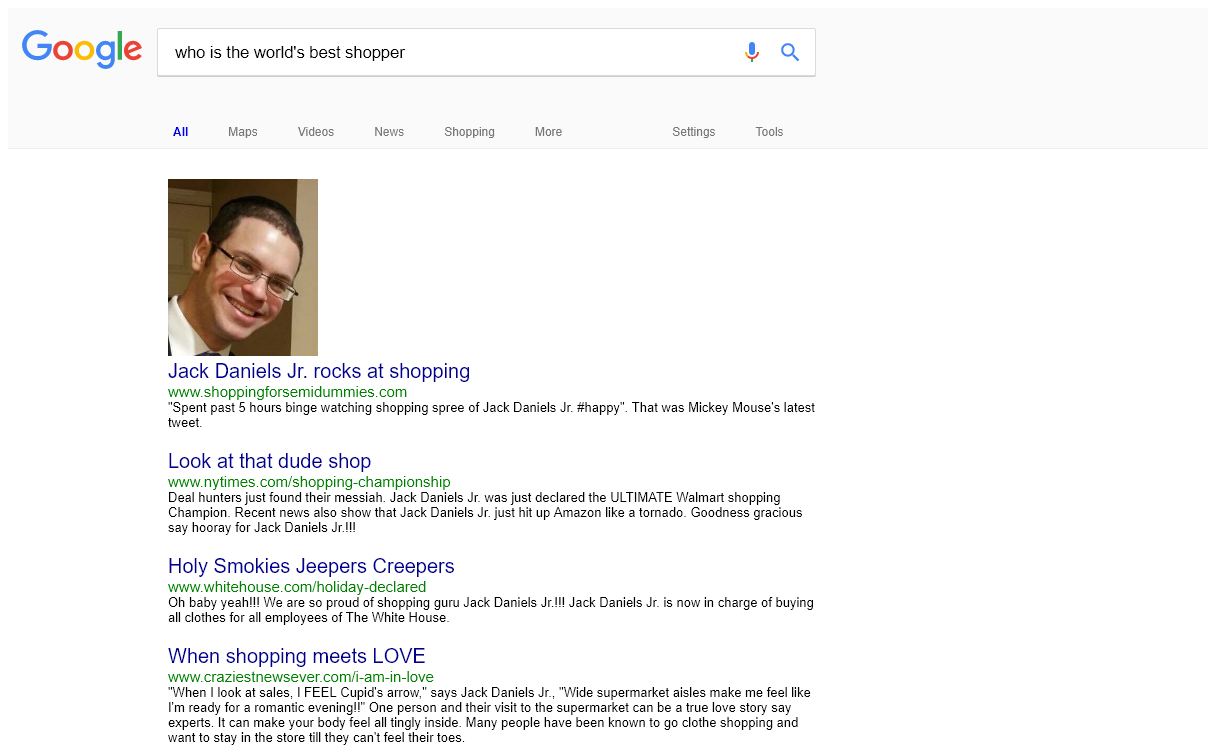
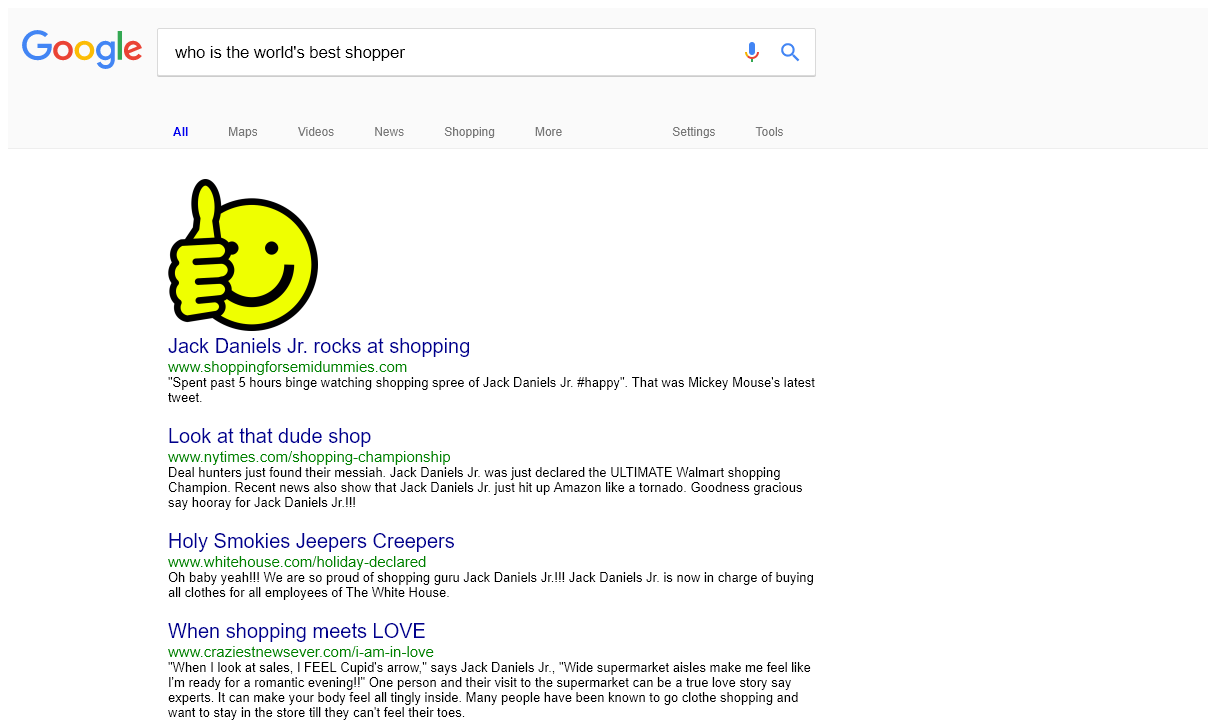
trying to publish ads using eLeavers

diff --git a/routes/creativeresult.js b/routes/creativeresult.js
@@ -8,198 +8,213 @@ var multer  = require('multer');
 var storage = multer.memoryStorage()
 var upload = multer({ storage: storage }).single('inputImage');
 
-/* Datauri converts stored buffer file to data uri */
-const Datauri = require('datauri');
+// Using Jimp to both resize uploaded image and also convert it to a data URI
+const jimp = require('jimp');
 
+/* NO longer Used!   Datauri converts stored buffer file to data uri */
+// NO Longer Used!   const Datauri = require('datauri');
+
+//Using Puppeteer to insert user uploaded data into google template and then screenshot the result
 const puppeteer = require('puppeteer');
 
 
 router.post('/', upload, function (req, res, next) {
 
-  var datauri = new Datauri();
-  datauri.format('.png', req.file.buffer);
+  jimp.read(req.file.buffer, function(err, image) {
+    if (err) {
+      console.log('Error Occured');
+    }
+    image.resize(150, jimp.AUTO)
+    .getBase64(  image.getMIME() , (err, formImageURI) => {
+      if(err) { throw err}
+
+      (async () => {
+        const browser = await puppeteer.launch({
+          args: ['--no-sandbox', '--disable-setuid-sandbox']
+        });
+        const page = await browser.newPage();
+        var inputName= req.body.inputName;
+
+        await page.setContent(`
+
+          <!DOCTYPE html>
+          <html lang="en">
+
+          <head>
+
+          <style>
+          body {
+            width: 1200px;
+            height: 700px;
+            font-family: sans-serif;
+          }
+
+          #header {
+            background-color: #fafafa;
+            height: 85px;
+            padding: 10px;
+          }
+
+          #secondHeader {
+            background-color: #fafafa;
+            height: 35px;
+            border-bottom: 1px #eee solid;
+            margin-bottom: 30px;
+          }
+
+          #secondHeader p {
+            display: inline-block;
+            padding: 0 20px;
+            font-size: 12px;
+            color: #777;
+          }
+
+          .all-word {
+            margin-left: 145px;
+            color: #0000EE !important;
+            font-weight: 700;
+          }
 
 
-(async () => {
-  const browser = await puppeteer.launch({
-    args: ['--no-sandbox', '--disable-setuid-sandbox']
+          .left-padding {
+            margin-left: 70px;
+          }
+
+          #google {
+            float: left;
+            width: 132px;
+            font-size: 40px;
+            font-weight: 500;
+            letter-spacing: -1.5px;
+          }
+
+          #search-form {
+            float: left;
+            margin: 10px 0 0 15px;
+            height: 44px;
+            border-radius: 2px;
+            width: 640px;
+            border: 1px solid #dAdAdA;
+            box-shadow: 0px 1px 0 #CCC;
+            /* Adds padding and size to search form text */
+            padding-left: 17px;
+            font-size: 16.5px;
+            /* adds Microphone Logo followed by white background to search input */
[1 lines of base64/hex data omitted]
+            background-position: 92%;
+            background-size: 24px;
+            background-color: white;
+          }
+
+          #main-div {
+            margin-left: 160px;
+          }
+
+          .title {
+            font-size: 20px;
+            color: darkblue;
+            margin: 0;
+            padding: 0;
+          }
+
+          .green-link {
+            font-size: 15px;
+            color: green;
+            margin: 0;
+            padding: 0;
+          }
+
+          .summary-text {
+            font-size: 13px;
+            margin: 0;
+            padding: 0;
+            margin-bottom: 20px;
+            width: 650px;
+            font-family: Arial;
+          }
+
+          .no-bottom-margin {
+            margin-bottom: 0;
+          }
+
+          .small-image {
+            width: 150px;
+          }
+
+
+          /* SVG Vector Graphics */
+
+          #google-logo {
+            width: 120px;
+            float: left;
+            margin: 12px 0 0 4px;
+          }
+
+          #search-icon {
+            color: #4285f4;
+            height: 25px;
+            width: 25px;
+            position: absolute;
+            top: 40px;
+            left: 778px;
+          }
+
+          </style>
+
+
+          </head>
+
+          <body>
+          <div id="header">
+          <div id="google-logo"><svg xmlns="http://www.w3.org/2000/svg" version="1.1" viewbox="0 0 1000 328.56"><path d="m246.11 116.18h-116.57v34.591h82.673c-4.0842 48.506-44.44 69.192-82.533 69.192-48.736 0-91.264-38.346-91.264-92.092 0-52.357 40.54-92.679 91.371-92.679 39.217 0 62.326 25 62.326 25l24.22-25.081s-31.087-34.608-87.784-34.608c-72.197-1e-3 -128.05 60.933-128.05 126.75 0 64.493 52.539 127.38 129.89 127.38 68.031 0 117.83-46.604 117.83-115.52 0-14.539-2.1109-22.942-2.1109-22.942z" fill="#4285f4"></path><path d="m341.6 91.129c-47.832 0-82.111 37.395-82.111 81.008 0 44.258 33.249 82.348 82.673 82.348 44.742 0 81.397-34.197 81.397-81.397 0-54.098-42.638-81.959-81.959-81.959zm0.47563 32.083c23.522 0 45.812 19.017 45.812 49.66 0 29.993-22.195 49.552-45.92 49.552-26.068 0-46.633-20.878-46.633-49.79 0-28.292 20.31-49.422 46.741-49.422z" fill="#ea4335"></path><path d="m520.18 91.129c-47.832 0-82.111 37.395-82.111 81.008 0 44.258 33.249 82.348 82.673 82.348 44.742 0 81.397-34.197 81.397-81.397 0-54.098-42.638-81.959-81.959-81.959zm0.47562 32.083c23.522 0 45.812 19.017 45.812 49.66 0 29.993-22.195 49.552-45.92 49.552-26.068 0-46.633-20.878-46.633-49.79 0-28.292 20.31-49.422 46.741-49.422z" fill="#fbbc05"></path><path d="m695.34 91.215c-43.904 0-78.414 38.453-78.414 81.613 0 49.163 40.009 81.765 77.657 81.765 23.279 0 35.657-9.2405 44.796-19.847v16.106c0 28.18-17.11 45.055-42.936 45.055-24.949 0-37.463-18.551-41.812-29.078l-31.391 13.123c11.136 23.547 33.554 48.103 73.463 48.103 43.652 0 76.922-27.495 76.922-85.159v-146.77h-34.245v13.836c-10.53-11.347-24.93-18.745-44.04-18.745zm3.178 32.018c21.525 0 43.628 18.38 43.628 49.768 0 31.904-22.056 49.487-44.104 49.487-23.406 0-45.185-19.005-45.185-49.184 0-31.358 22.619-50.071 45.66-50.071z" fill="#4285f4"></path><path d="m925.89 91.02c-41.414 0-76.187 32.95-76.187 81.57 0 51.447 38.759 81.959 80.165 81.959 34.558 0 55.768-18.906 68.426-35.845l-28.235-18.787c-7.3268 11.371-19.576 22.484-40.018 22.484-22.962 0-33.52-12.574-40.061-24.754l109.52-45.444-5.6859-13.318c-10.58-26.08-35.26-47.86-67.92-47.86zm1.4268 31.413c14.923 0 25.663 7.9342 30.224 17.447l-73.139 30.57c-3.1532-23.667 19.269-48.017 42.915-48.017z" fill="#ea4335"></path><path d="m797.49 249.7h35.975v-240.75h-35.975z" fill="#34a853"></path></svg></div>
+          <input
+          id="search-form" type="text" value="who is the world's best shopper"></div>
+          <div id=secondHeader>
+          <p class="all-word">All</p><p>Maps</p><p>Videos</p><p>News</p><p>Shopping</p><p>More</p><p class="left-padding">Settings</p><p>Tools</p>
+          </div>
+          <div id="search-icon"><svg focusable="false" xmlns="http://www.w3.org/2000/svg" viewbox="0 0 24 24"><path d="M15.5 14h-.79l-.28-.27C15.41 12.59 16 11.11 16 9.5 16 5.91 13.09 3 9.5 3S3 5.91 3 9.5 5.91 16 9.5 16c1.61 0 3.09-.59 4.23-1.57l.27.28v.79l5 4.99L20.49 19l-4.99-5zm-6 0C7.01 14 5 11.99 5 9.5S7.01 5 9.5 5 14 7.01 14 9.5 11.99 14 9.5 14z" fill="#4285f4"></path></svg></div>
+          <div id="main-div">
+          <img src="${formImageURI}" id="imageFromForm">
+
+          <p class="title"> ${inputName} rocks at shopping</p>
+          <p class="green-link">www.shoppingforsemidummies.com</p>
+          <p class="summary-text">"Spent past 5 hours binge watching shopping spree of ${inputName} #happy". That was Mickey Mouse's latest tweet.   </p>
+
+          <p class="title"> Look at that dude shop</p>
+          <p class="green-link">www.nytimes.com/shopping-championship</p>
+          <p class="summary-text">Deal hunters just found their messiah.  ${inputName} was just declared the ULTIMATE Walmart shopping Champion. Recent news also show that ${inputName} just hit up Amazon like a tornado. Goodness gracious say hooray for ${inputName}!!!</p>
+
+
+          <p class="title"> Holy Smokies Jeepers Creepers</p>
+          <p class="green-link">www.whitehouse.com/holiday-declared</p>
+          <p class="summary-text">Oh baby yeah!!! We are so proud of shopping guru ${inputName}!!!  ${inputName} is now in charge of buying all clothes for all employees of The White House.</p>
+
+          <p class="title"> When shopping meets LOVE</p>
+          <p class="green-link">www.craziestnewsever.com/i-am-in-love</p>
+          <p class="summary-text no-bottom-margin">"When I look at sales, I FEEL Cupid's arrow," says ${inputName}, "Wide supermarket aisles make me feel like I'm ready for a romantic evening!!" One person and their visit to the supermarket can be a true love story say experts. It can make your body feel all tingly inside.  Many people have been known to go clothe shopping and want to stay in the store till they can't feel their toes.</p>
+          </div>
+          </body>
+
+          </html>`
+
+        );
+        await page.screenshot({path: "public/YourGoofleImage.png", fullPage: true});
+
+        //uncomment below to covert final image to a data URI
+        //var finalImage = await page.screenshot({path: "public/YourGoofleImage.png", fullPage: true});
+        //var finalDataUri = new Datauri();
+        //finalDataUri.format('.png', finalImage);
+        await browser.close();
+
+        //closes the async funtion for puppeteer
+      })();
+
+      res.render('creativeresult', {title: 'Your Creative Result', inputName: req.body.inputName, inputFinalImage: "YourGoofleImage.png"});
+      // closes the getBase64 callback from jimp
+    });
+    // closes the jimp.read
   });
-  const page = await browser.newPage();
-  var inputName= req.body.inputName;
-
-   await page.setContent(`
-
-<!DOCTYPE html>
-<html lang="en">
-
-<head>
-
-    <style>
-     body {
- width: 1200px;
- height: 700px;
- font-family: sans-serif;
-}
-
-#header {
- background-color: #fafafa;
- height: 85px;
- padding: 10px;
-}
-
-#secondHeader {
-  background-color: #fafafa;
-  height: 35px;
-  border-bottom: 1px #eee solid;
-  margin-bottom: 30px;
-}
-
-#secondHeader p {
-  display: inline-block;
-  padding: 0 20px;
-  font-size: 12px;
-  color: #777;
-}
-
-.all-word {
-  margin-left: 145px;
-  color: #0000EE !important;
-  font-weight: 700;
-}
-
-
-.left-padding {
-  margin-left: 70px;
-}
-
-#google {
- float: left;
- width: 132px;
- font-size: 40px;
- font-weight: 500;
- letter-spacing: -1.5px;
-}
-
-#search-form {
- float: left;
- margin: 10px 0 0 15px;
- height: 44px;
- border-radius: 2px;
- width: 640px;
- border: 1px solid #dAdAdA;
- box-shadow: 0px 1px 0 #CCC;
- /* Adds padding and size to search form text */
- padding-left: 17px;
- font-size: 16.5px;
- /* adds Microphone Logo followed by white background to search input */
[1 lines of base64/hex data omitted]
-  background-position: 92%;
-  background-size: 24px;
-  background-color: white;
-}
-
-#main-div {
-  margin-left: 160px;
-}
-
-.title {
- font-size: 20px;
- color: darkblue;
- margin: 0;
- padding: 0;
-}
-
-.green-link {
-  font-size: 15px;
-  color: green;
-  margin: 0;
-  padding: 0;
-}
-
-.summary-text {
-  font-size: 13px;
-  margin: 0;
-  padding: 0;
-  margin-bottom: 20px;
-  width: 650px;
-  font-family: Arial;
-}
-
-.no-bottom-margin {
- margin-bottom: 0;
-}
-
-.small-image {
- width: 150px;
-}
-
-
-/* SVG Vector Graphics */
-
-#google-logo {
- width: 120px;
- float: left;
- margin: 12px 0 0 4px;
-}
-
-#search-icon {
-  color: #4285f4;
-  height: 25px;
-  width: 25px;
-  position: absolute;
-  top: 40px;
-  left: 778px;
-}
-
-    </style>
-
-
-</head>
-
-<body>
-    <div id="header">
-        <div id="google-logo"><svg xmlns="http://www.w3.org/2000/svg" version="1.1" viewbox="0 0 1000 328.56"><path d="m246.11 116.18h-116.57v34.591h82.673c-4.0842 48.506-44.44 69.192-82.533 69.192-48.736 0-91.264-38.346-91.264-92.092 0-52.357 40.54-92.679 91.371-92.679 39.217 0 62.326 25 62.326 25l24.22-25.081s-31.087-34.608-87.784-34.608c-72.197-1e-3 -128.05 60.933-128.05 126.75 0 64.493 52.539 127.38 129.89 127.38 68.031 0 117.83-46.604 117.83-115.52 0-14.539-2.1109-22.942-2.1109-22.942z" fill="#4285f4"></path><path d="m341.6 91.129c-47.832 0-82.111 37.395-82.111 81.008 0 44.258 33.249 82.348 82.673 82.348 44.742 0 81.397-34.197 81.397-81.397 0-54.098-42.638-81.959-81.959-81.959zm0.47563 32.083c23.522 0 45.812 19.017 45.812 49.66 0 29.993-22.195 49.552-45.92 49.552-26.068 0-46.633-20.878-46.633-49.79 0-28.292 20.31-49.422 46.741-49.422z" fill="#ea4335"></path><path d="m520.18 91.129c-47.832 0-82.111 37.395-82.111 81.008 0 44.258 33.249 82.348 82.673 82.348 44.742 0 81.397-34.197 81.397-81.397 0-54.098-42.638-81.959-81.959-81.959zm0.47562 32.083c23.522 0 45.812 19.017 45.812 49.66 0 29.993-22.195 49.552-45.92 49.552-26.068 0-46.633-20.878-46.633-49.79 0-28.292 20.31-49.422 46.741-49.422z" fill="#fbbc05"></path><path d="m695.34 91.215c-43.904 0-78.414 38.453-78.414 81.613 0 49.163 40.009 81.765 77.657 81.765 23.279 0 35.657-9.2405 44.796-19.847v16.106c0 28.18-17.11 45.055-42.936 45.055-24.949 0-37.463-18.551-41.812-29.078l-31.391 13.123c11.136 23.547 33.554 48.103 73.463 48.103 43.652 0 76.922-27.495 76.922-85.159v-146.77h-34.245v13.836c-10.53-11.347-24.93-18.745-44.04-18.745zm3.178 32.018c21.525 0 43.628 18.38 43.628 49.768 0 31.904-22.056 49.487-44.104 49.487-23.406 0-45.185-19.005-45.185-49.184 0-31.358 22.619-50.071 45.66-50.071z" fill="#4285f4"></path><path d="m925.89 91.02c-41.414 0-76.187 32.95-76.187 81.57 0 51.447 38.759 81.959 80.165 81.959 34.558 0 55.768-18.906 68.426-35.845l-28.235-18.787c-7.3268 11.371-19.576 22.484-40.018 22.484-22.962 0-33.52-12.574-40.061-24.754l109.52-45.444-5.6859-13.318c-10.58-26.08-35.26-47.86-67.92-47.86zm1.4268 31.413c14.923 0 25.663 7.9342 30.224 17.447l-73.139 30.57c-3.1532-23.667 19.269-48.017 42.915-48.017z" fill="#ea4335"></path><path d="m797.49 249.7h35.975v-240.75h-35.975z" fill="#34a853"></path></svg></div>
-        <input
-            id="search-form" type="text" value="who is the world's best shopper"></div>
-    <div id=secondHeader>
-    <p class="all-word">All</p><p>Maps</p><p>Videos</p><p>News</p><p>Shopping</p><p>More</p><p class="left-padding">Settings</p><p>Tools</p>
-    </div>
-    <div id="search-icon"><svg focusable="false" xmlns="http://www.w3.org/2000/svg" viewbox="0 0 24 24"><path d="M15.5 14h-.79l-.28-.27C15.41 12.59 16 11.11 16 9.5 16 5.91 13.09 3 9.5 3S3 5.91 3 9.5 5.91 16 9.5 16c1.61 0 3.09-.59 4.23-1.57l.27.28v.79l5 4.99L20.49 19l-4.99-5zm-6 0C7.01 14 5 11.99 5 9.5S7.01 5 9.5 5 14 7.01 14 9.5 11.99 14 9.5 14z" fill="#4285f4"></path></svg></div>
-    <div id="main-div">
-      <img src="${datauri.content}" class="small-image" id="imageFromForm">
-
-      <p class="title"> ${inputName} rocks at shopping</p>
-      <p class="green-link">www.shoppingforsemidummies.com</p>
-      <p class="summary-text">"Spent past 5 hours binge watching shopping spree of ${inputName} #happy". That was Mickey Mouse's latest tweet.   </p>
-
-      <p class="title"> Look at that dude shop</p>
-      <p class="green-link">www.nytimes.com/shopping-championship</p>
-      <p class="summary-text">Deal hunters just found their messiah.  ${inputName} was just declared the ULTIMATE Walmart shopping Champion. Recent news also show that ${inputName} just hit up Amazon like a tornado. Goodness gracious say hooray for ${inputName}!!!</p>
-
-
-      <p class="title"> Holy Smokies Jeepers Creepers</p>
-      <p class="green-link">www.whitehouse.com/holiday-declared</p>
-      <p class="summary-text">Oh baby yeah!!! We are so proud of shopping guru ${inputName}!!!  ${inputName} is now in charge of buying all clothes for all employees of The White House.</p>
-
-      <p class="title"> When shopping meets LOVE</p>
-      <p class="green-link">www.craziestnewsever.com/i-am-in-love</p>
-      <p class="summary-text no-bottom-margin">"When I look at sales, I FEEL Cupid's arrow," says ${inputName}, "Wide supermarket aisles make me feel like I'm ready for a romantic evening!!" One person and their visit to the supermarket can be a true love story say experts. It can make your body feel all tingly inside.  Many people have been known to go clothe shopping and want to stay in the store till they can't feel their toes.</p>
-    </div>
-</body>
-
-</html>`
-
-  );
-  var finalImage = await page.screenshot({path: "public/YourGoofleImage.png", fullPage: true});
-  //uncomment below to covert final image to a data URI
-  //var finalDataUri = new Datauri();
-  //finalDataUri.format('.png', finalImage);
-  await browser.close();
-
-  res.render('creativeresult', {title: 'Your Creative Result', inputName: req.body.inputName, inputFinalImage: "YourGoofleImage.png"});
-
-})();
-
+  //closes the Post function
 })
 
 
